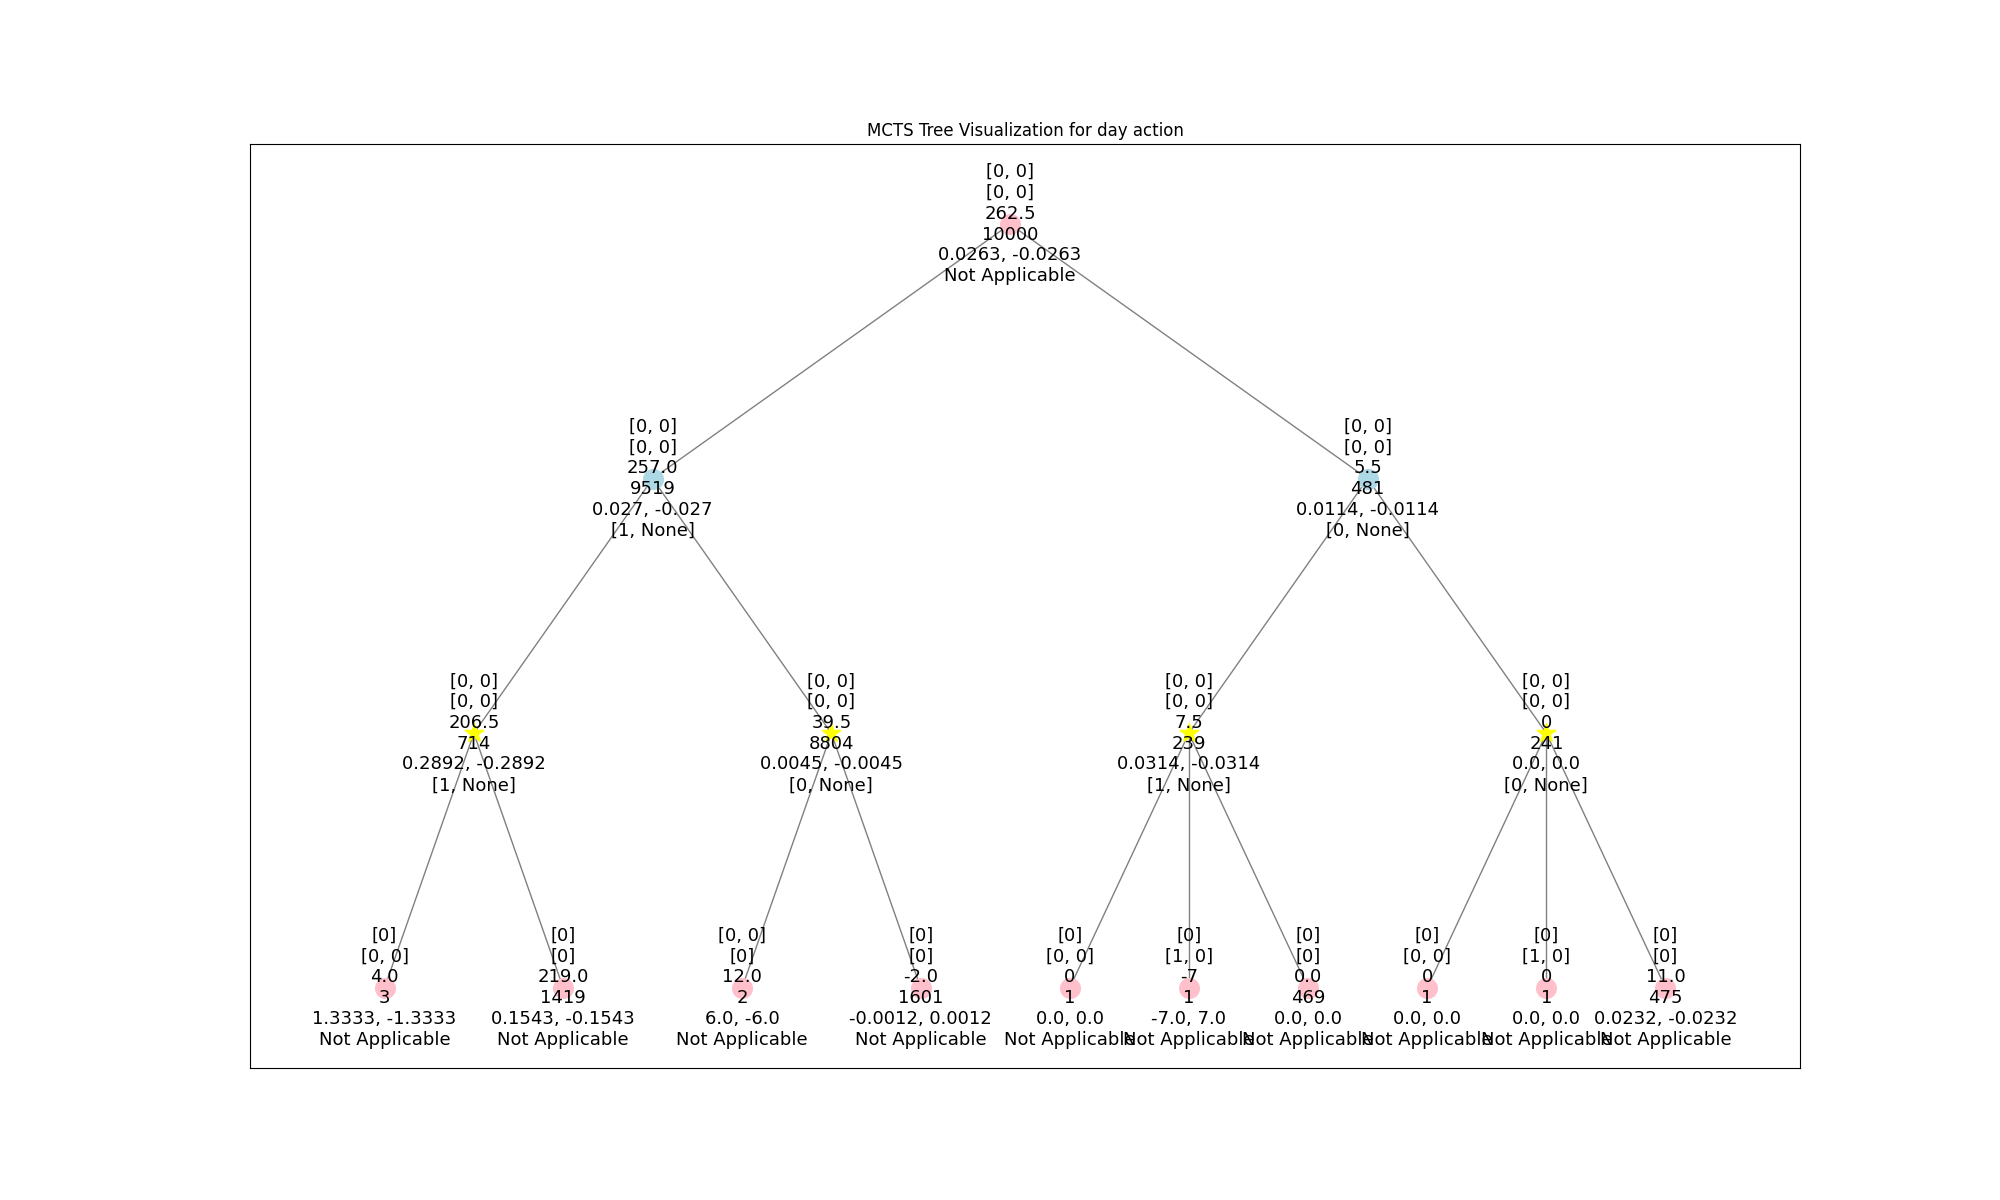
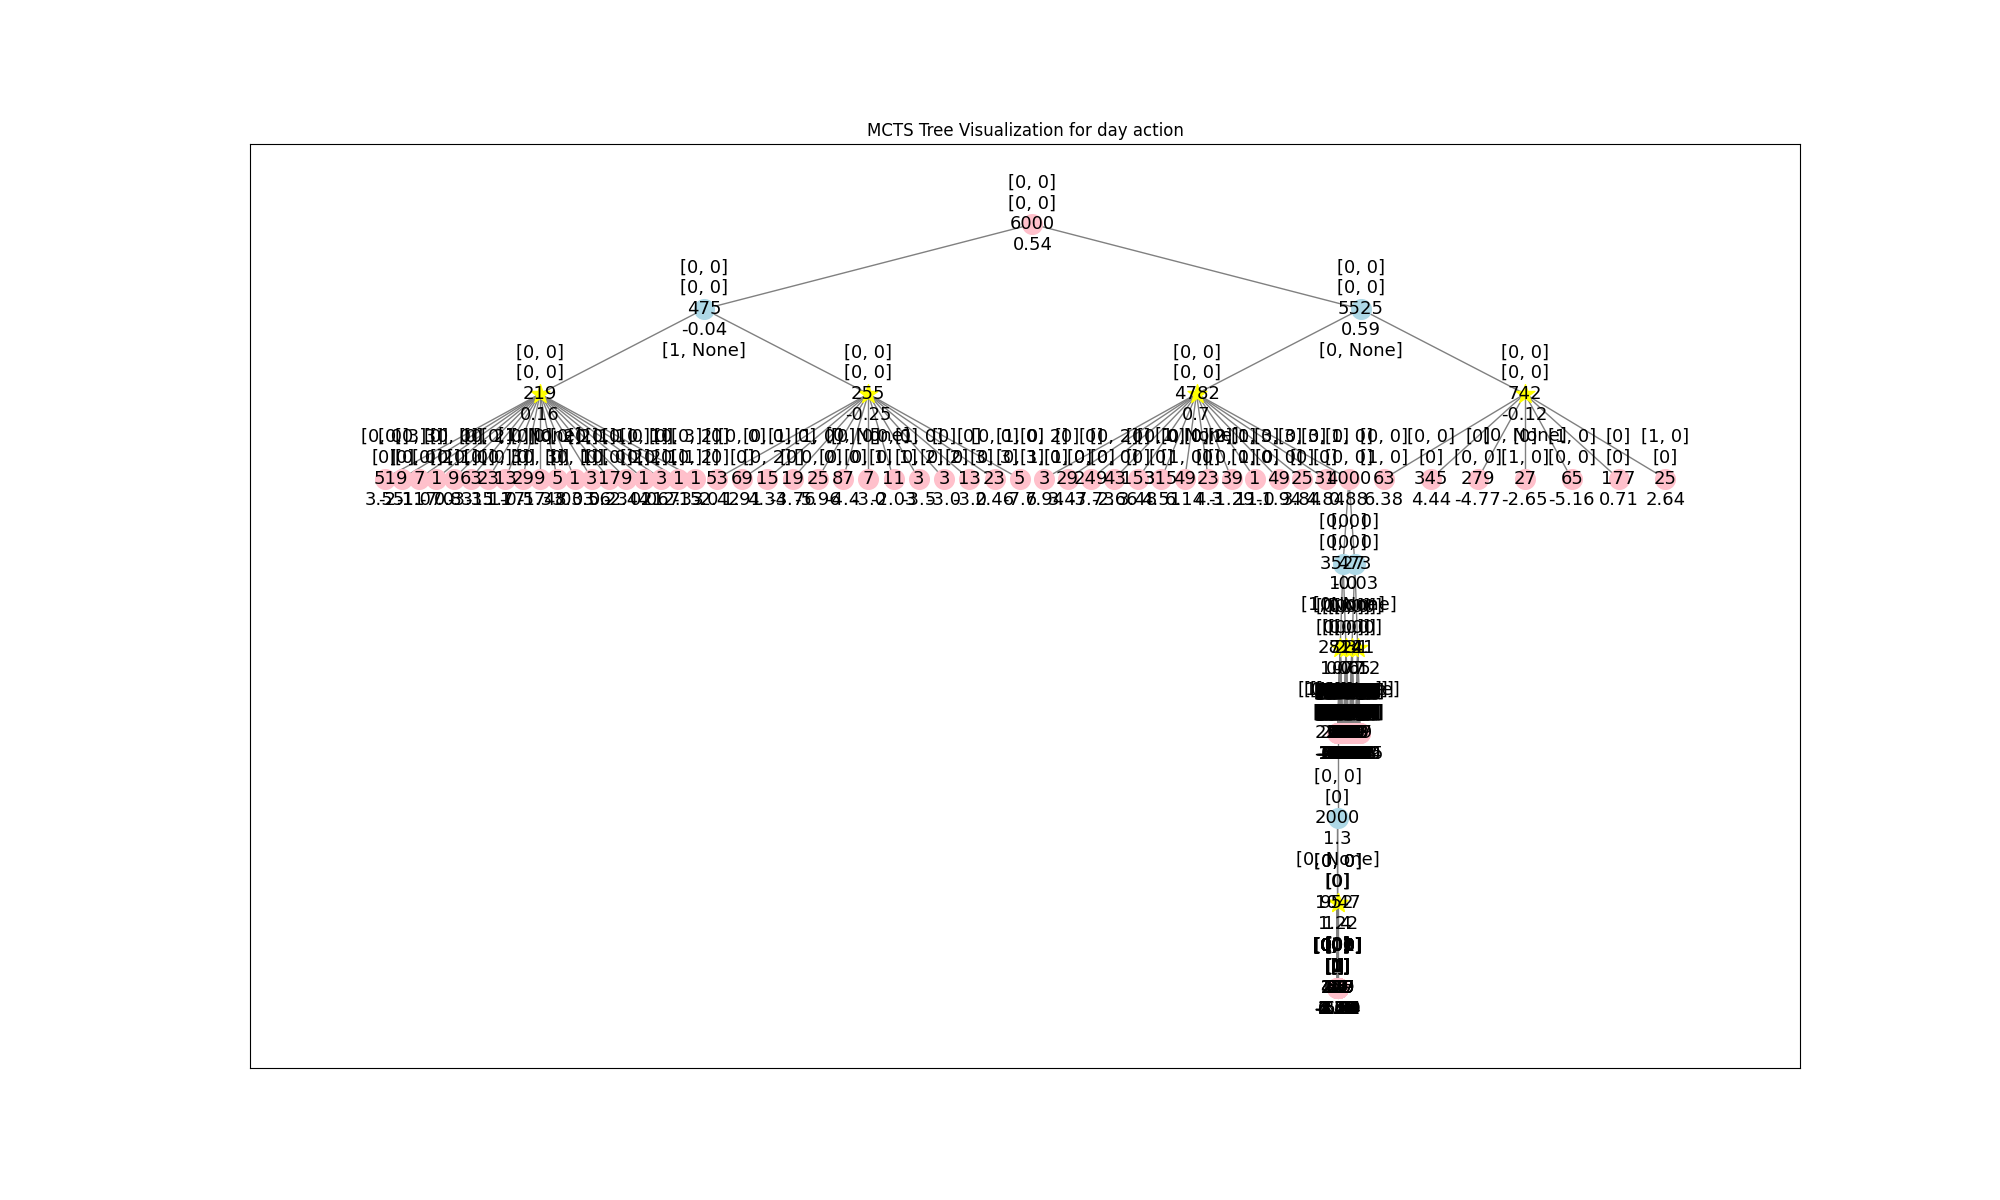
version with right nodes

diff --git a/main.py b/main.py
@@ -36,7 +36,7 @@ def visualize_mcts(root):
 
     def add_edges(node, parent_id=None):
         node_id = id(node)
-        node_label = f"{[u["damage"] for u in node.original_game.units[0]]}\n{[u["damage"] for u in node.original_game.units[1]]}\n{node.avg[0]}\n{node.visits}\n{round(node.value[0], 4)}, {round(node.value[1], 4)}\n{node.action if isinstance(node, mcts.DecisionNode) else node.a_action}"
+        node_label = f"{[u["damage"] for u in node.original_game.units[0]]}\n{[u["damage"] for u in node.original_game.units[1]]}\n{node.visits}\n{round(node.value[0], 2)}\n{node.action if isinstance(node, mcts.DecisionNode) else node.a_action}"
         G.add_node(node_id, label=node_label)
 
         # Determine shape: stars for chance nodes, circles otherwise
@@ -121,11 +121,12 @@ def choose_action(units, pv):
         action = "day and night"
     return action
 
-def mcts_round(game_state, max_reward):
+def mcts_round(game_state, max_reward, final=False):
     done = game_state.is_terminal()
     rewards = [0, 0]
-    node = mcts.DecisionNode(game_state, max_reward=max_reward)
-    tree = mcts.MCTS(node)
+    root = mcts.DecisionNode(game_state, max_reward=max_reward)
+    tree = mcts.MCTS(root)
+    node = root
     actions = []
     while not done:
         j_node = tree.search(node, iterations=1000) #find action for japanese
@@ -143,10 +144,17 @@ def mcts_round(game_state, max_reward):
             return rewards, tree.root
         #represent(node.game, a_action, 1)
         game_state, reward, done = game_state.step([j_action, a_action])
-        if game_state != node.game:
+        if final:
+            print("Reward for ", [j_action, a_action], "is: ", reward, "and is done?", done)
+        rewards = [x + y for x, y in zip(rewards, reward)]
+        for child in a_node.children:
+            if child.game == game_state:
+                node = child
+                break
+        else:
+            # Caso não exista ainda (raro se simulação foi feita corretamente), recria e adiciona
             node = mcts.DecisionNode(game_state, max_reward, parent=a_node, action=a_action, player=0, value=reward)
             a_node.add_child(node, reward)
-            rewards = [x+y for x, y in zip(rewards, reward)]
     rewards = [x+y for x, y in zip(rewards, game_state.reward_zone())]
     return rewards, tree.root, actions, node
 
@@ -172,31 +180,35 @@ def read_units(data):
     
     return result
 
+
 def main():
     japanese, allied = choose_random()
     units = [read_units(japanese), read_units(allied)]
     pv = [0,0] #[random.randint(1, 3), random.randint(1, 3)]
     action = choose_action(units, pv) 
+    root_night = None
     if action != "day and night":
         print("Chosen action is:", action)
         game_state = game.Game(units=units, pv=pv, action=action)
         max_reward = game_state.max_reward(action)
-        result, root, _, _ = mcts_round(copy.deepcopy(game_state), max_reward) 
-        visualize_mcts(root)
+        result, root, actions, _ = mcts_round(copy.deepcopy(game_state), max_reward, True) 
     else:
         print("No consensus on action - day followed by night")
         game_state = game.Game(units=units, pv=pv, action="day")
         max_reward = game_state.max_reward("day")
-        result, root, _, node = mcts_round(copy.deepcopy(game_state), max_reward) 
-        visualize_mcts(root)
+        result, root, actions, node = mcts_round(copy.deepcopy(game_state), max_reward, True) 
         game_state_night = game.Game(units=copy.deepcopy(node.game.units), pv=pv, action="night")
         if not game_state_night.is_terminal():
-            result_night, root_night, _, _ = mcts_round(copy.deepcopy(game_state_night), max_reward)
+            result_night, root_night, n_actions, node = mcts_round(copy.deepcopy(game_state_night), max_reward, True)
+            actions.append(n_actions)
             result = [x+y for x, y in zip(result, result_night)]       
-            visualize_mcts(root_night)
         else:
-            print("Game is already over.")
-    return result, root.value, action
+            print("Game was already over before night action started.")
+    print("Units at end: ", [u["damage"] for u in node.game.units[0]], [u["damage"] for u in node.game.units[1]])
+    visualize_mcts(root)
+    if root_night:
+        visualize_mcts(root_night)
+    return result, root.value, action, actions
 
 def testing():
     file = open("results.txt", "w")

diff --git a/game.py b/game.py
@@ -13,24 +13,25 @@ class Game:
         self.pv = pv
 
     def step(self, actions):
+        game_copy = copy.deepcopy(self)
         reward = [0, 0]
         for player in range(2):
             action = actions[player]
-            units = self.units[player]
-            opponent = self.units[1-player]
+            units = game_copy.units[player]
+            opponent = game_copy.units[1-player]
             for i in range(len(action)):
                 if action[i] != None:
-                initial_availability = opponent[action[i]]["availability"]
-                state = self.damage(units[i], opponent[action[i]])
-                damage = self.reward(self.action, player, opponent[action[i]])
-                final_availability = opponent[action[i]]["availability"]
-                if final_availability == 0:
-                    reward = [x + y for x, y in zip(reward, damage)]
-                else:
-                    proportion = (initial_availability - final_availability) / initial_availability
-                    reward = [x + proportion * y for x, y in zip(reward, damage)]
-        j_units = [unit for unit in self.units[0] if unit["availability"] != 0]
-        a_units = [unit for unit in self.units[1] if unit["availability"] != 0]
+                    initial_availability = opponent[action[i]]["availability"]
+                    state = game_copy.damage(units[i], opponent[action[i]])
+                    damage = game_copy.reward(self.action, player, opponent[action[i]])
+                    final_availability = opponent[action[i]]["availability"]
+                    if final_availability == 0:
+                        reward = [x + y for x, y in zip(reward, damage)]
+                    else:
+                        proportion = (initial_availability - final_availability) / initial_availability
+                        reward = [x + proportion * y for x, y in zip(reward, damage)]
+        j_units = [unit for unit in game_copy.units[0] if unit["availability"] != 0]
+        a_units = [unit for unit in game_copy.units[1] if unit["availability"] != 0]
         new = Game([j_units, a_units], self.pv, self.action)
         return new, reward, new.is_terminal()
     
@@ -42,7 +43,8 @@ class Game:
     def max_reward(self, action): #fazemos para 0 porque é igual
         reward_j, reward_a = 0, 0
         for unit in self.units[0]:
-            reward_a += self.reward(action, 1, unit)[1]
+            reward = self.reward(action, 1, unit)[1]
+            reward_a += reward
         for unit in self.units[1]:
             reward_j += self.reward(action, 0, unit)[0]
         return max(reward_j, reward_a)
@@ -124,8 +126,7 @@ class Game:
         return valid_actions
      
     def get_next_state(self, actions):
-        new_game = Game(units=self.units, pv=self.pv, action=self.action)
-        new_game, reward, _ = new_game.step(actions)
+        new_game, reward, _ = self.step(actions)
         return new_game, reward
     
     def __eq__(self, other):

diff --git a/mcts.py b/mcts.py
@@ -32,10 +32,11 @@ class ChanceNode: #node de chance
 
     def expand(self):
         """Expands by adding a new child node."""
-        game, reward = self.game.get_next_state([self.j_action, self.a_action])
-        if game == self.game:
+        game_copy = copy.deepcopy(self.game)
+        game_copy, reward = game_copy.get_next_state([self.j_action, self.a_action])
+        if game_copy == self.game:
             return self
-        child_node = DecisionNode(copy.deepcopy(game), self.max_reward, parent=self, action=self.a_action)
+        child_node = DecisionNode(game_copy, self.max_reward, parent=self, action=self.a_action, value=reward)
         for existing_child in self.children:
             if existing_child == child_node:
                 existing_child.update(reward)
@@ -57,7 +58,7 @@ class ChanceNode: #node de chance
         for existing_child in self.children:
             if existing_child == child:
                 existing_child.update(reward)
-                return existing_child
+                return 
         self.children.append(child)
     
     def __eq__(self, other):
@@ -74,7 +75,7 @@ class DecisionNode: #node para as acoes
         self.children = []
         self.visits = 0
         self.value = value
-        self.action = action if player == 1 else "Not Applicable"
+        self.action = action if player == 1 else " "
         self.untried_actions = list(game.actions_available(player))
         self.player = player
         self.avg = [0, 0]
@@ -118,9 +119,10 @@ class DecisionNode: #node para as acoes
         
     def add_child(self, child, reward):
         """Adds a child node."""
-        if child in self.children:
-            child.update(reward)
-            return 
+        for existing_child in self.children:
+            if existing_child == child:
+                existing_child.update(reward)
+                return 
         self.children.append(child)
               
     def __eq__(self, other):
